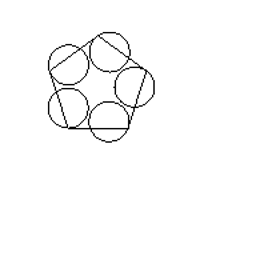
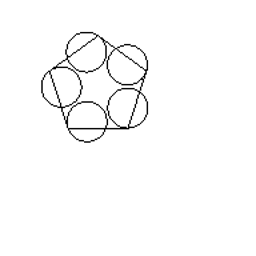
combined move and turn primitives

Changed region(s): [[0.1562, 0.125, 0.5938, 0.5625], [0.5938, 0.3125, 0.625, 0.375]]

diff --git a/src/flatland/lispy/primitives.py b/src/flatland/lispy/primitives.py
@@ -124,22 +124,14 @@ class LoopNode(Node):
 
 
 class MoveNode(Node):
-    def __init__(self, dist, body, env):
+    def __init__(self, dist, theta, body, env):
         super().__init__(body, env)
         self.dist = evalf(dist, env)
-
-    def __call__(self):
-        config.TURTLE.forward(self.dist)
-        super().__call__()
-
-
-class TurnNode(Node):
-    def __init__(self, theta, body, env):
-        super().__init__(body, env)
-        self.theta = theta
+        self.theta = evalf(theta, env)
 
     def __call__(self):
         config.TURTLE.left(self.theta)
+        config.TURTLE.forward(self.dist)
         super().__call__()
 
 
@@ -148,8 +140,6 @@ def node_builder(tp, *args):
         return LoopNode(*args)
     elif tp == "move":
         return MoveNode(*args)
-    elif tp == "turn":
-        return TurnNode(*args)
     else:
         raise TypeError(f"invalid node type {tp}")
 
